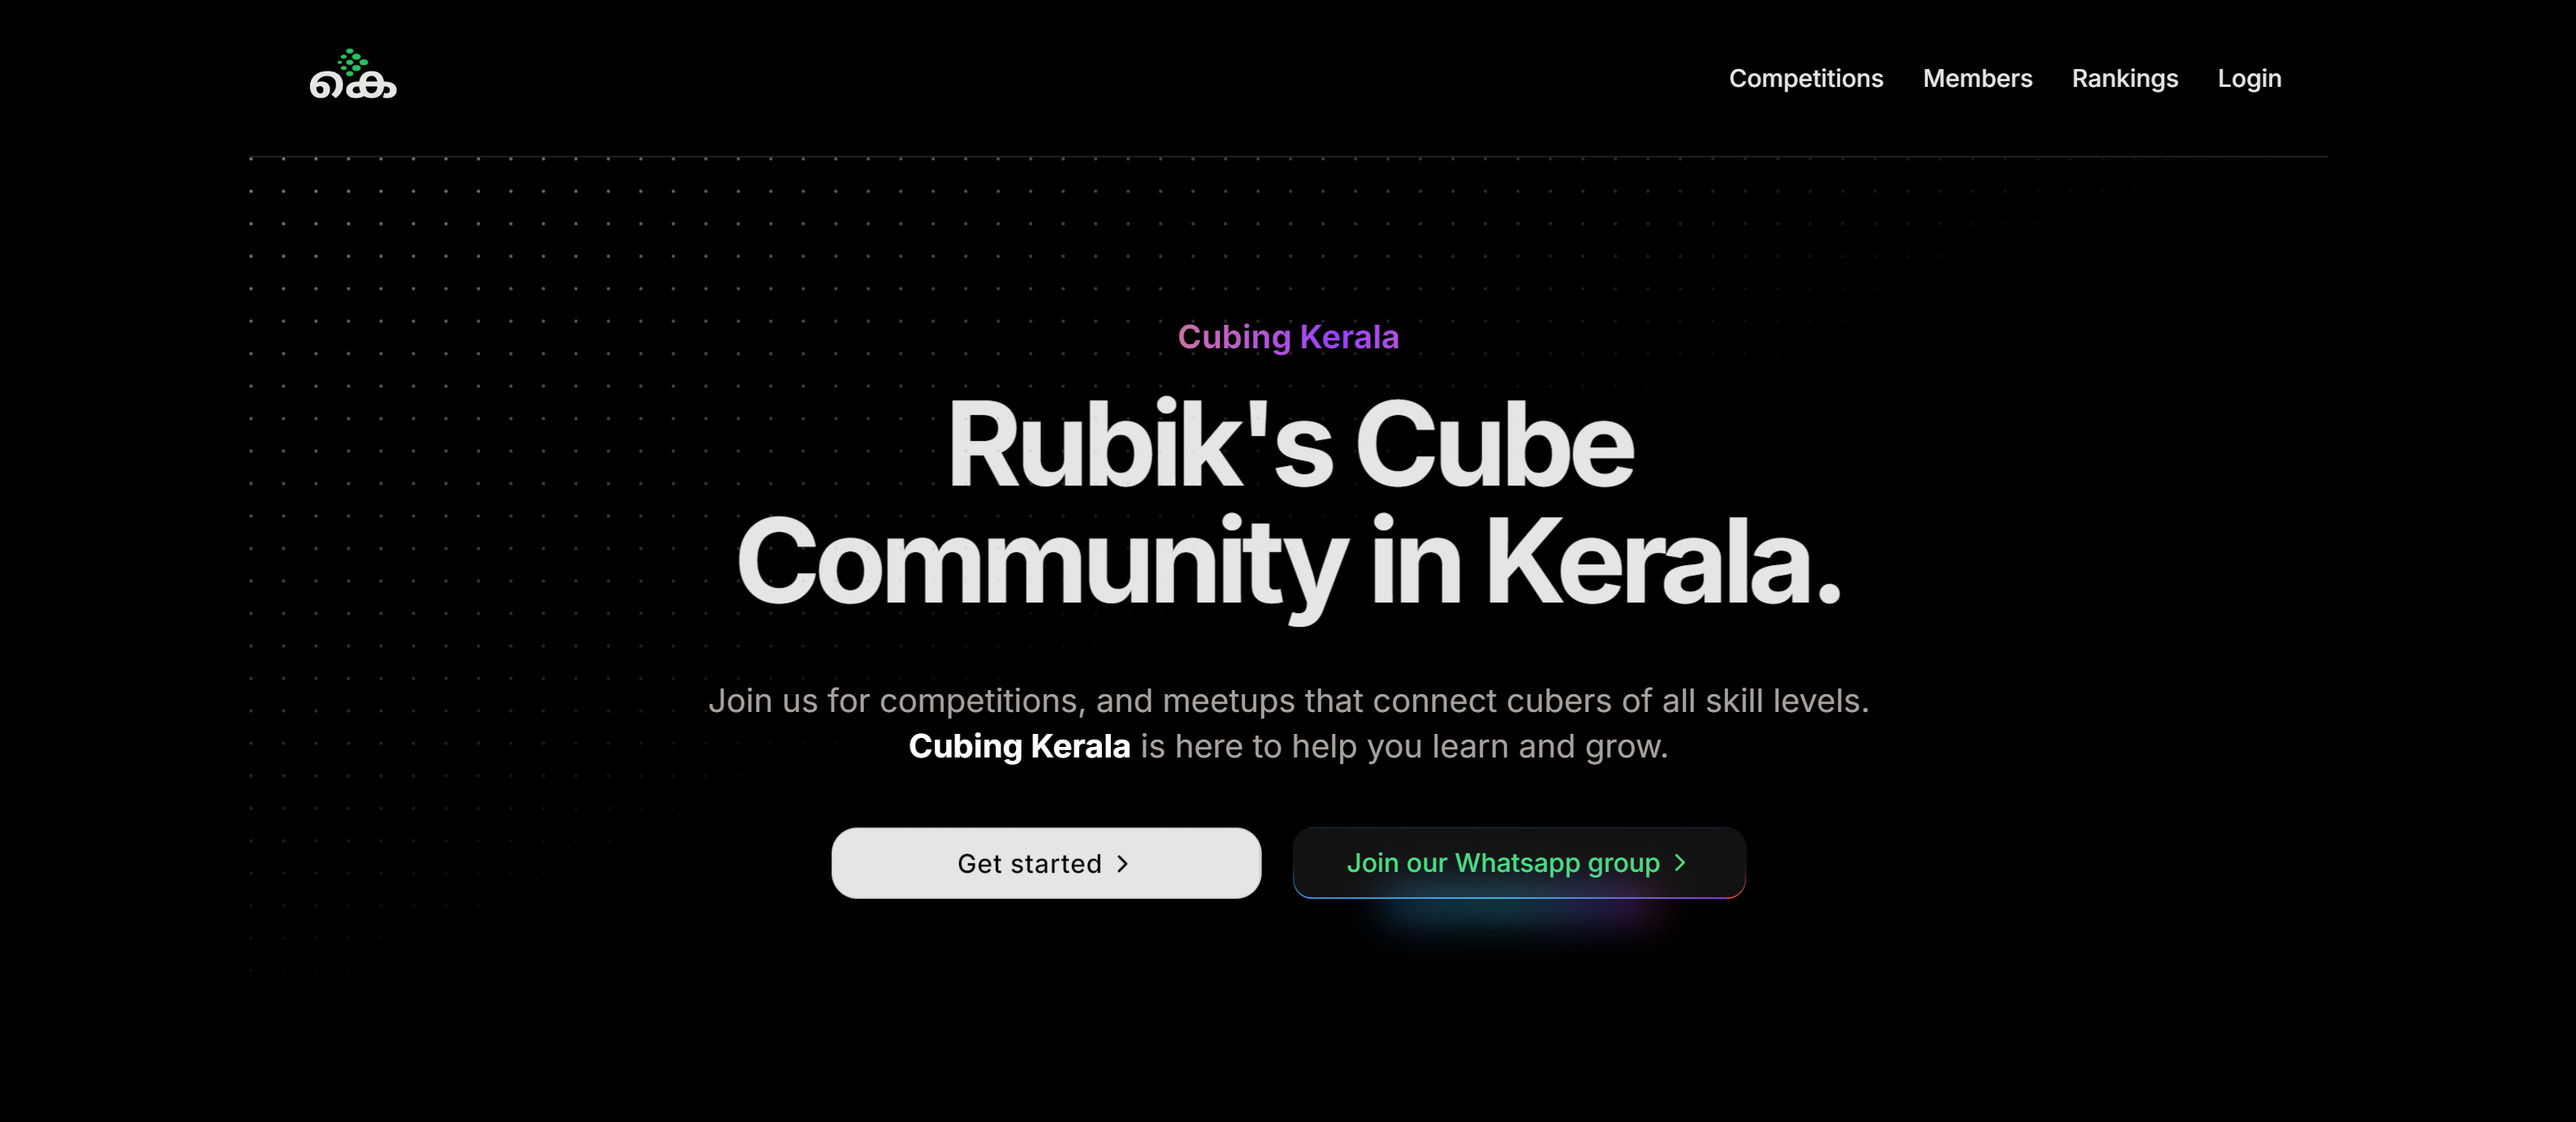
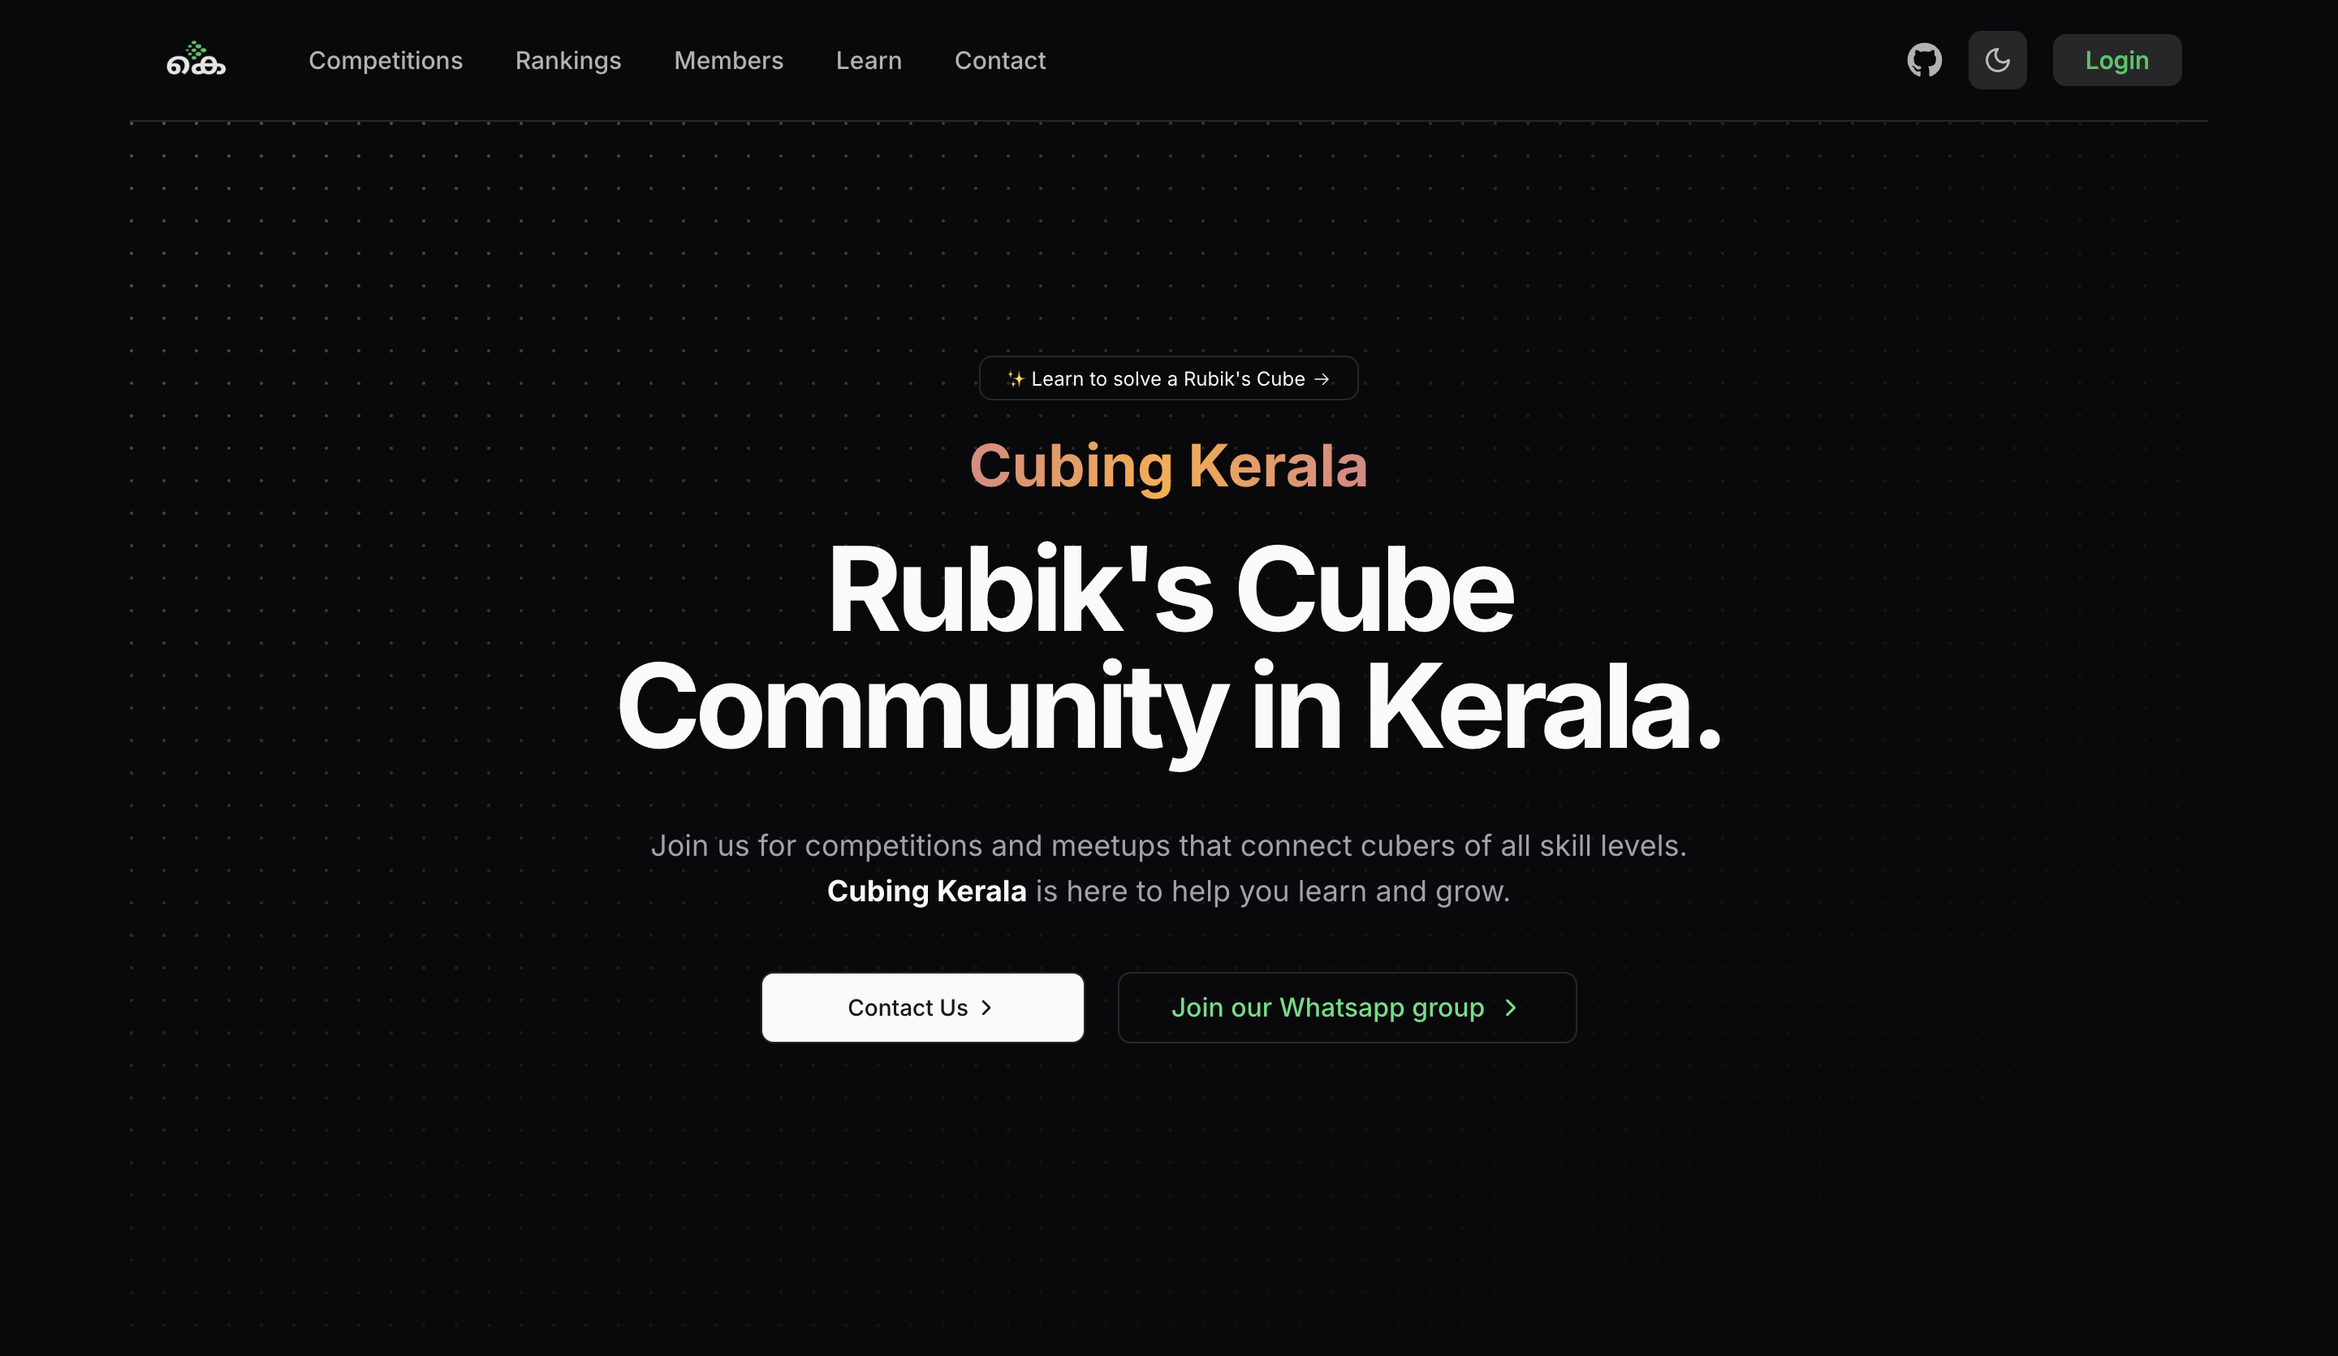
refactor: rewrite about & project descriptions, redesign project cards, add theme toggle and smooth transitions
- Rewrote about section and project descriptions for a natural, concise tone
- Redesigned project cards with modern styling, pill-shaped tech tags, and inline links
- Added theme toggle to contact section with smooth light/dark mode CSS transition
- Cleaned up unused imports and props across components

diff --git a/src/components/project-card.tsx b/src/components/project-card.tsx
@@ -1,11 +1,3 @@
-import { Badge } from "@/components/ui/badge";
-import {
-  Card,
-  CardContent,
-  CardFooter,
-  CardHeader,
-  CardTitle,
-} from "@/components/ui/card";
 import { cn } from "@/lib/utils";
 import Image from "next/image";
 import Link from "next/link";
@@ -13,15 +5,15 @@ import Markdown from "react-markdown";
 
 interface Props {
   title: string;
-  subtitle: string,
+  subtitle: string;
   href?: string;
   description: string;
   dates: string;
   tags: readonly string[];
   link?: string;
   image?: string;
-  width?: number,
-  height?: number,
+  width?: number;
+  height?: number;
   video?: string;
   links?: readonly {
     icon: React.ReactNode;
@@ -34,74 +26,84 @@ interface Props {
 export function ProjectCard({
   title,
   subtitle,
-  href,
   description,
   dates,
   tags,
-  link,
   image,
-  video,
   links,
   className,
   width,
   height,
 }: Props) {
   return (
-    <Card
-      className={
-        "flex flex-col overflow-hidden border transition-all duration-300 ease-out h-full"
-      }
+    <div
+      className={cn(
+        "group relative rounded-xl border border-border/50 bg-card/50 backdrop-blur-sm overflow-hidden transition-all duration-500 hover:border-border hover:shadow-lg hover:shadow-primary/5 h-full flex flex-col",
+        className
+      )}
     >
       {image && (
+        <div className="relative overflow-hidden">
           <Image
             src={image}
             alt={title}
             width={width}
             height={height}
-            className="h-40 w-full overflow-hidden object-cover object-top"
+            className="h-44 w-full object-cover object-top transition-transform duration-500 group-hover:scale-105"
           />
-        )}
-      <CardHeader className="px-2">
-        <div className="space-y-1">
-          <CardTitle className="mt-1 text-base">{title}{subtitle && <span className="text-muted-foreground/70 font-normal ml-1 text-sm/relaxed md:text-md/relaxed xl:text-md/relaxed">({subtitle})</span>}</CardTitle>
-          <time className="font-sans text-xs">{dates}</time>
-          <div className="hidden font-sans text-xs underline print:visible">
-            {link?.replace("https://", "").replace("www.", "").replace("/", "")}
-          </div>
-          <Markdown className="prose max-w-full text-pretty font-sans text-xs text-muted-foreground dark:prose-invert">
-            {description}
-          </Markdown>
         </div>
-      </CardHeader>
-      <CardContent className="mt-auto flex flex-col px-2">
+      )}
+
+      <div className="flex flex-col flex-1 p-4 gap-3">
+        <div className="space-y-1">
+          <div className="flex items-center justify-between">
+            <h3 className="font-semibold text-base tracking-tight">
+              {title}
+              {subtitle && (
+                <span className="text-muted-foreground/60 font-normal ml-1.5 text-xs">
+                  ({subtitle})
+                </span>
+              )}
+            </h3>
+          </div>
+          <p className="text-xs text-muted-foreground/60">{dates}</p>
+        </div>
+
+        <Markdown className="prose max-w-full text-pretty font-sans text-sm leading-relaxed text-muted-foreground dark:prose-invert">
+          {description}
+        </Markdown>
+
         {tags && tags.length > 0 && (
-          <div className="mt-2 flex flex-wrap gap-1">
-            {tags?.map((tag) => (
-              <Badge
-                className="px-1 py-0 text-[10px]"
-                variant="secondary"
+          <div className="flex flex-wrap gap-1.5 mt-auto pt-2">
+            {tags.map((tag) => (
+              <span
                 key={tag}
+                className="px-2 py-0.5 text-[11px] rounded-full bg-primary/5 text-muted-foreground border border-border/50 transition-colors duration-300 hover:border-primary/30 hover:text-foreground"
               >
                 {tag}
-              </Badge>
+              </span>
             ))}
           </div>
         )}
-      </CardContent>
-      <CardFooter className="px-2 pb-2">
+
         {links && links.length > 0 && (
-          <div className="flex flex-row flex-wrap items-start gap-1">
-            {links?.map((link, idx) => (
-              <Link href={link?.href} key={idx} target="_blank">
-                <Badge key={idx} className="flex hover:text-blue-300 gap-2 px-2 py-1 text-[10px]">
-                  {link.icon}
+          <div className="flex items-center gap-2 pt-1">
+            {links.map((link, idx) => (
+              <Link
+                href={link.href}
+                key={idx}
+                target="_blank"
+                className="flex items-center gap-1.5 text-xs text-muted-foreground hover:text-foreground transition-colors duration-300"
+              >
+                {link.icon}
+                <span className="border-b border-transparent hover:border-current">
                   {link.type}
-                </Badge>
+                </span>
               </Link>
             ))}
           </div>
         )}
-      </CardFooter>
-    </Card>
+      </div>
+    </div>
   );
 }

diff --git a/src/data/resume.tsx b/src/data/resume.tsx
@@ -1,5 +1,5 @@
 import { Icons } from "@/components/icons";
-import { CodeIcon, HomeIcon, NotebookIcon, PencilLine } from "lucide-react";
+import { CodeIcon, HomeIcon } from "lucide-react";
 
 export const DATA = {
   name: "Allen John",
@@ -9,7 +9,7 @@ export const DATA = {
   locationLink: "https://www.google.com/maps/place/sanfrancisco",
   description: "Full stack developer, Speedcuber",
   summary:
-    "Full-stack developer in the making, currently studying at SAIT in Calgary. My journey here wasn&apos;t exactly a straight line. Started with a CS degree (triple major in Math, Stats, and CS) but honestly had no idea what I was doing or why. After graduation, I chased what actually excited me and became a promo editor for a Malayalam film. Loved every creative minute of it, until the unpredictability sent me back to the one field I&apos;d been dodging: software development.\n\nPlot twist: this time it clicked. I rolled up my sleeves, taught myself the fundamentals properly, and after a MERN stack course, something just made sense. Finally found my groove and ended up at SAIT, where the hands-on learning has been a game-changer. These days I&apos;m deep into freeCodeCamp and YouTube tutorials, building projects, and nervously eyeing open source repos (those codebases are no joke, but I&apos;ll crack them eventually). Still figuring out what I want to specialize in, hoping to land a job post-graduation, but mostly just enjoying getting 1% better each day.\n\nOh, and I can solve a Rubik&apos;s Cube in under 10 seconds. Just saying.",
+    "I&apos;m a full-stack developer currently studying Software Development at SAIT in Calgary. I started out with a CS degree back in India, took a detour into film editing for a bit, and eventually found my way back to code, this time for real.\n\nAfter a MERN stack course and an internship, things started clicking. Now I spend most of my time building projects with Next.js, TypeScript, and whatever else the project needs. I also help maintain [Cubing Kerala](https://cubingkerala.org) and work on the [SpeedCubers India](https://speedcubersindia.com/) platform.\n\nOutside of code, I&apos;m a competitive speedcuber. I can solve a Rubik&apos;s Cube in under 10 seconds.",
   avatarUrl: "/allen-profile.png",
   frontendSkills: [
     "Next.js",
@@ -109,7 +109,7 @@ export const DATA = {
       dates: "August 2024 - Present",
       active: true,
       description:
-        "Being part of the cubing community in Kerala, I wanted to build something that&apos;d actually help cubers stay updated on competitions and rankings. This is a revamped version of an older app I built with JavaScript, React, and Node, which was painfully slow on free hosting. So I rebuilt it with Next.js and TypeScript for better performance and reliability. It connects with the World Cube Association&apos;s authentication and APIs to pull in competition data, making it easier for the community to stay in the loop.",
+        "A platform for the Kerala cubing community to track competitions and rankings. Originally built with React and Node, I rebuilt it from scratch with Next.js and TypeScript for better performance. It integrates with the World Cube Association&apos;s APIs and authentication to keep competition data up to date.",
       technologies: [
         "Next.js",
         "TypeScript",
@@ -145,7 +145,7 @@ export const DATA = {
       dates: "March 2025 - Present",
       active: true,
       description:
-        "Part of a 4-member team building the web application for SpeedCubers India, an organization working towards WCA regional recognition. I&apos;m handling most of the frontend and also jumping into backend work when needed. We&apos;re creating a platform with national rankings for Indian cubers and a live feed of upcoming and past competitions. Hoping to launch it in the next few months and see it help grow the cubing community across India.",
+        "Building the web platform for SpeedCubers India as part of a small team. I handle most of the frontend and chip in on the backend. The app features national rankings for Indian cubers and a live competition feed. We&apos;re working towards launch and WCA regional recognition.",
       technologies: [
         "Next.js",
         "TypeScript",

diff --git a/src/app/page.tsx b/src/app/page.tsx
@@ -7,6 +7,7 @@ import { Badge } from "@/components/ui/badge";
 import { DATA } from "@/data/resume";
 import Link from "next/link";
 import Markdown from "react-markdown";
+import { ModeToggle } from "@/components/mode-toggle";
 
 const BLUR_FADE_DELAY = 0.04;
 
@@ -168,29 +169,30 @@ export default function Page() {
       </section>
 
       <section id="contact">
-        <div className="flex justify-start text-center w-full">
+        <div className="flex items-center justify-between w-full">
           <BlurFade delay={BLUR_FADE_DELAY * 16}>
-            <div className="space-y-3">
-              <p className="mx-auto max-w-[600px] text-start md:text-lg/relaxed">
-                Connect me on{" "}
-                <Link
-                  href={DATA.contact.social.LinkedIn.url}
-                  className="hover:text-blue-400 font-semibold"
-                  target="_blank"
-                  rel="noopener noreferrer"
-                >
-                  LinkedIn
-                </Link>{" or "}
-                <Link
-                  href={DATA.contact.social.GitHub.url}
-                  className="hover:text-blue-400 font-semibold"
-                  target="_blank"
-                  rel="noopener noreferrer"
-                >
-                  Github
-                </Link>{" "}
-              </p>
-            </div>
+            <p className="md:text-lg/relaxed">
+              Connect me on{" "}
+              <Link
+                href={DATA.contact.social.LinkedIn.url}
+                className="hover:text-blue-400 font-semibold"
+                target="_blank"
+                rel="noopener noreferrer"
+              >
+                LinkedIn
+              </Link>{" or "}
+              <Link
+                href={DATA.contact.social.GitHub.url}
+                className="hover:text-blue-400 font-semibold"
+                target="_blank"
+                rel="noopener noreferrer"
+              >
+                Github
+              </Link>
+            </p>
+          </BlurFade>
+          <BlurFade delay={BLUR_FADE_DELAY * 16}>
+            <ModeToggle />
           </BlurFade>
         </div>
       </section>

diff --git a/src/app/globals.css b/src/app/globals.css
@@ -69,6 +69,7 @@
   @layer base {
     * {
       @apply border-border;
+      transition: background-color 0.3s ease, color 0.3s ease, border-color 0.3s ease;
     }
     body {
       @apply bg-background text-foreground;
